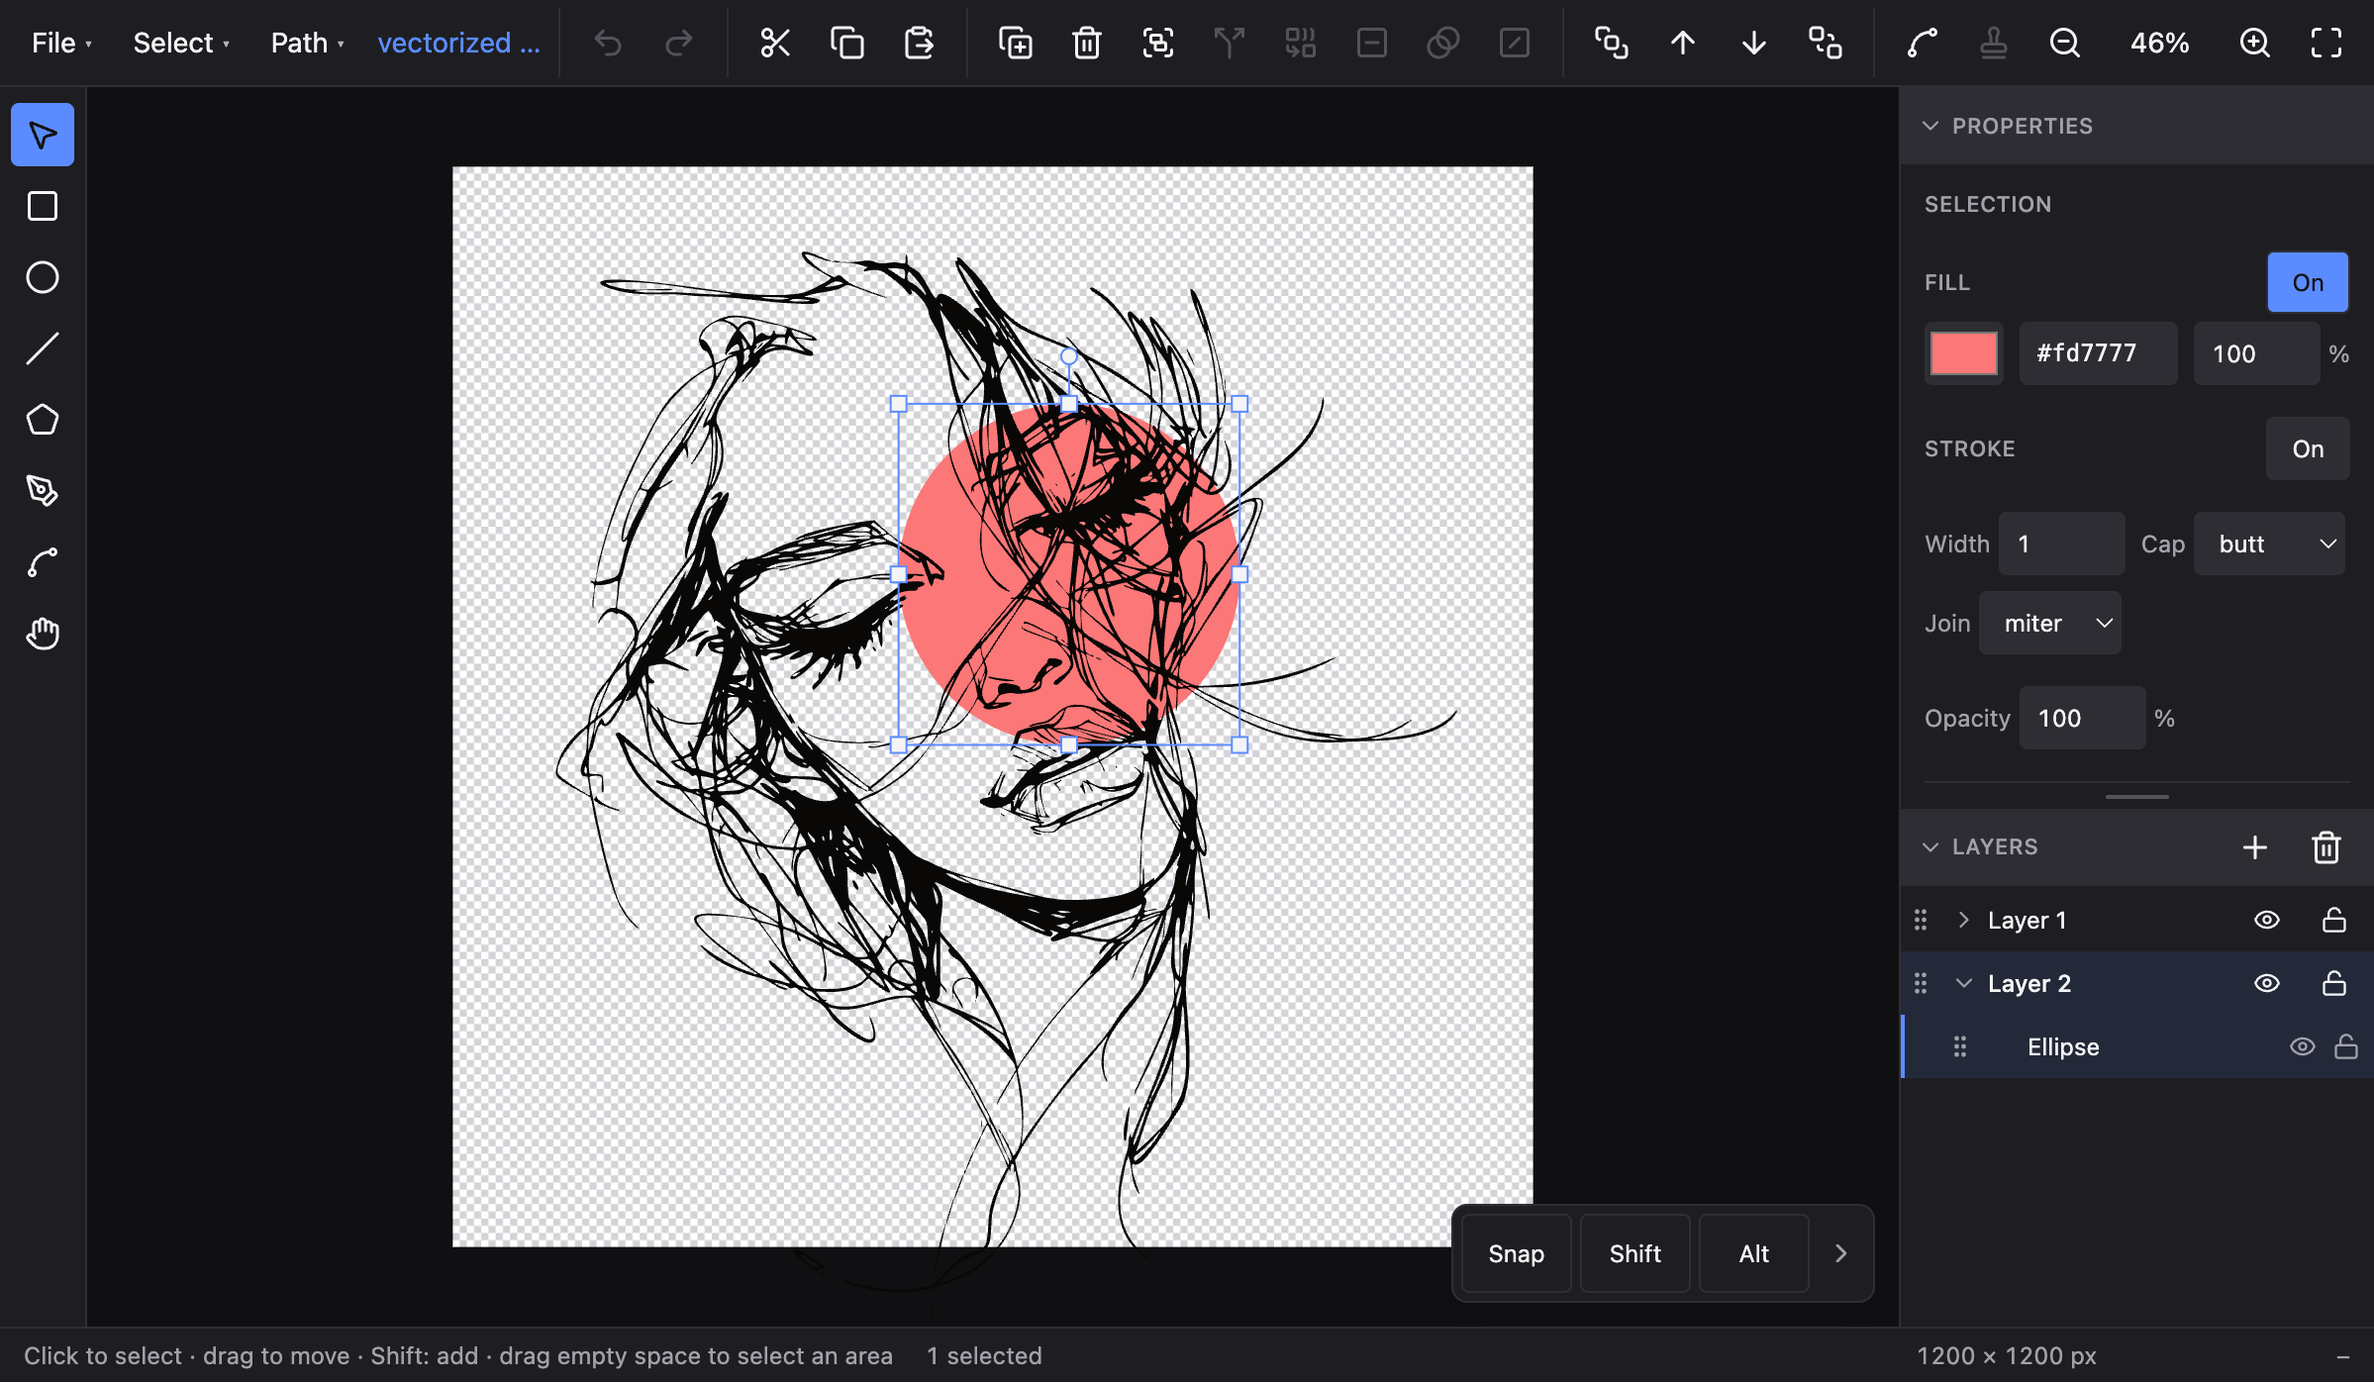
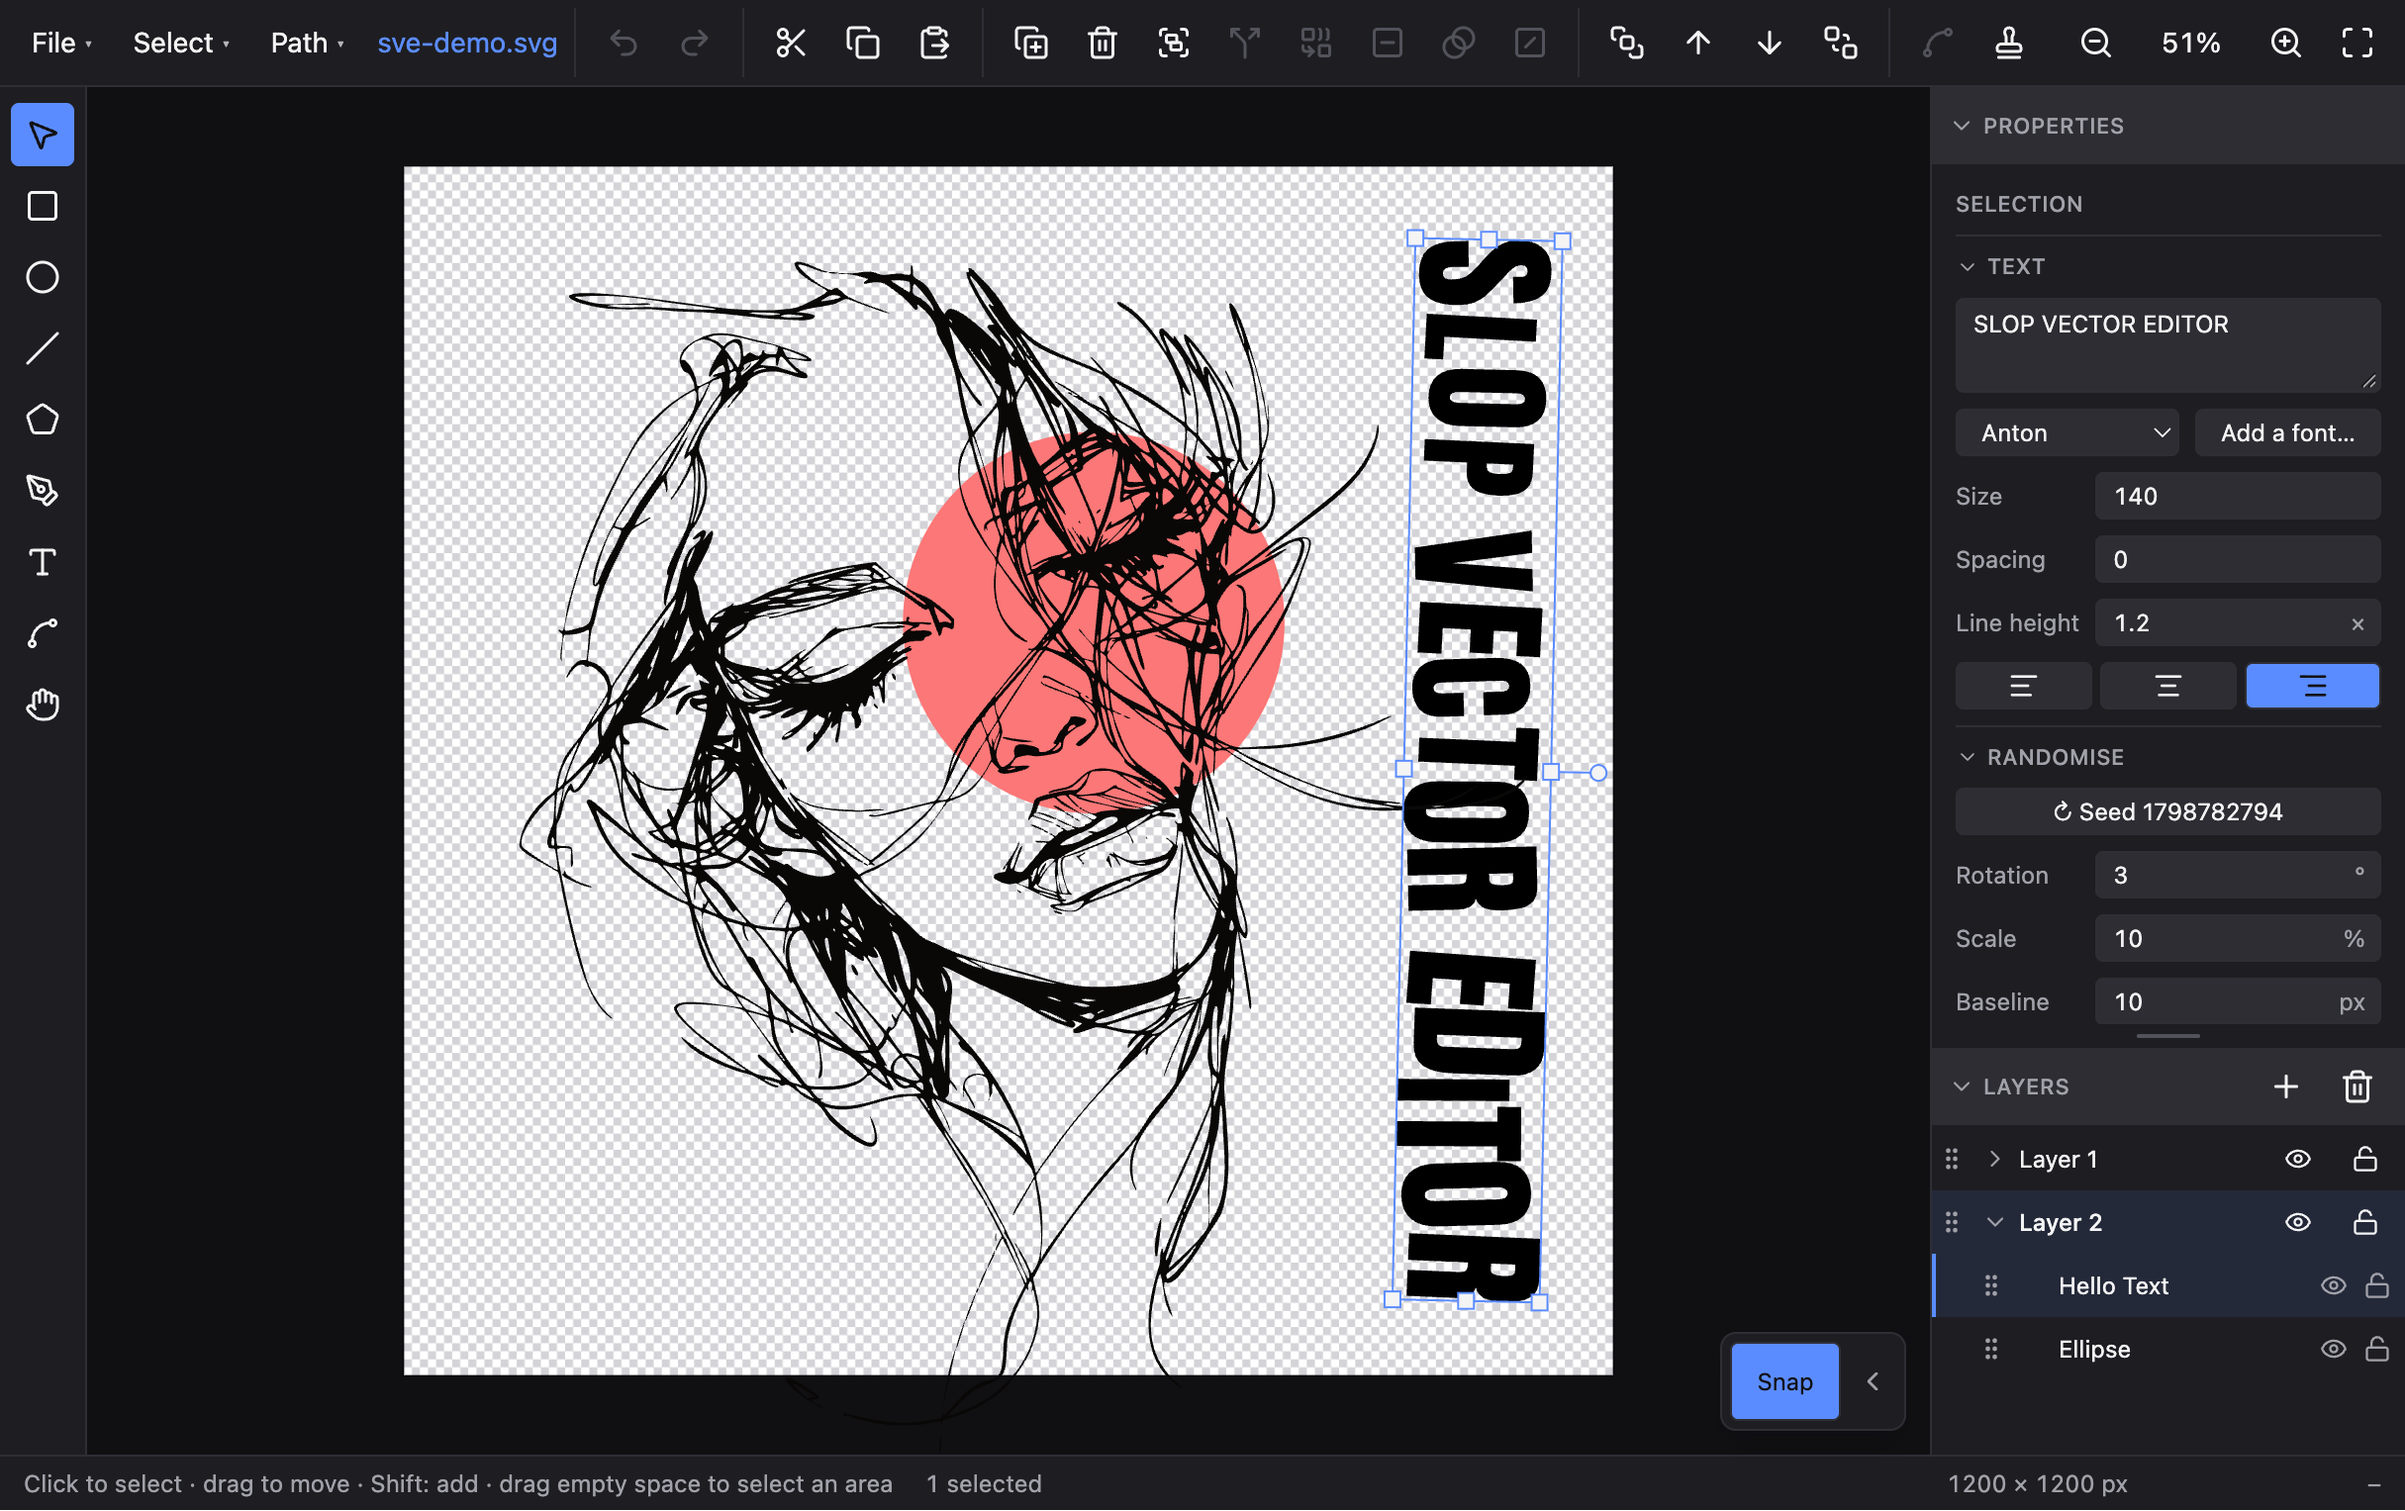
docs: refresh the screenshot for the rebuilt properties panel
Shows the collapsible sections, the aligned fields with their units
inside, and a selected title with its randomiser settings. Alt text
updated to match — it described a selected ellipse.

diff --git a/README.md b/README.md
@@ -8,7 +8,7 @@ Your document is a plain `.svg` file: open it in any browser or design tool.
 
 **[Try it → slop-vector-editor.meigo.workers.dev](https://slop-vector-editor.meigo.workers.dev)**
 
-![The editor with a vectorised drawing open: tool strip, canvas with a selected ellipse, the properties and layers panels, and the on-screen modifier pad](docs/screenshot.png)
+![The editor with a vectorised drawing open: the tool strip, a canvas holding a sketched portrait and a red circle, a selected vertical title reading “SLOP VECTOR EDITOR” with its per-character randomiser settings in the properties panel, the layers panel, and the on-screen modifier pad](docs/screenshot.png)
 
 ## Status
 
